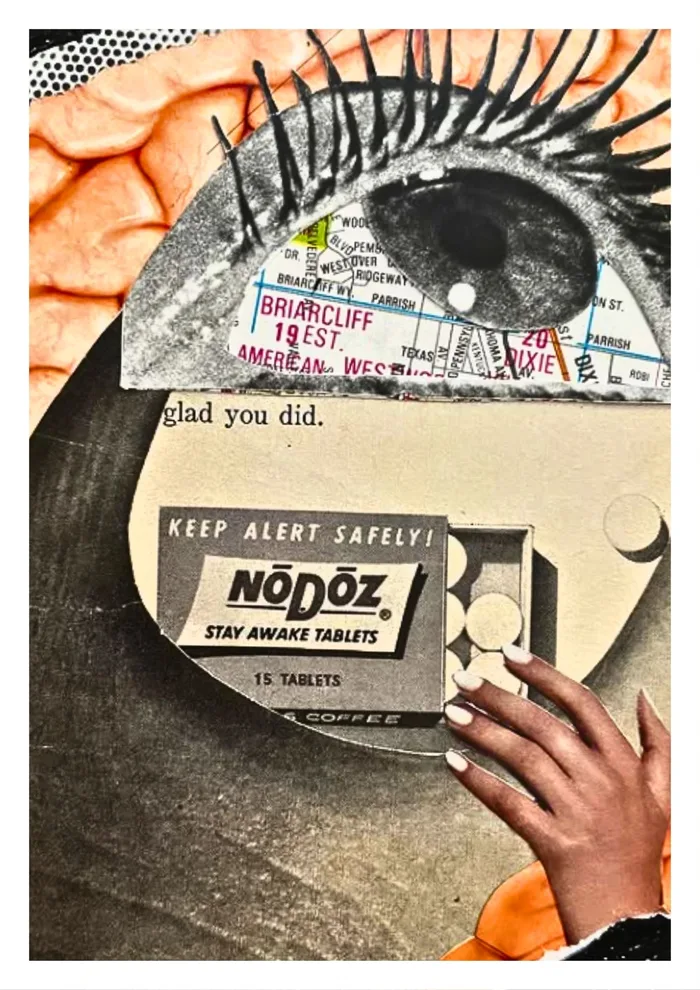
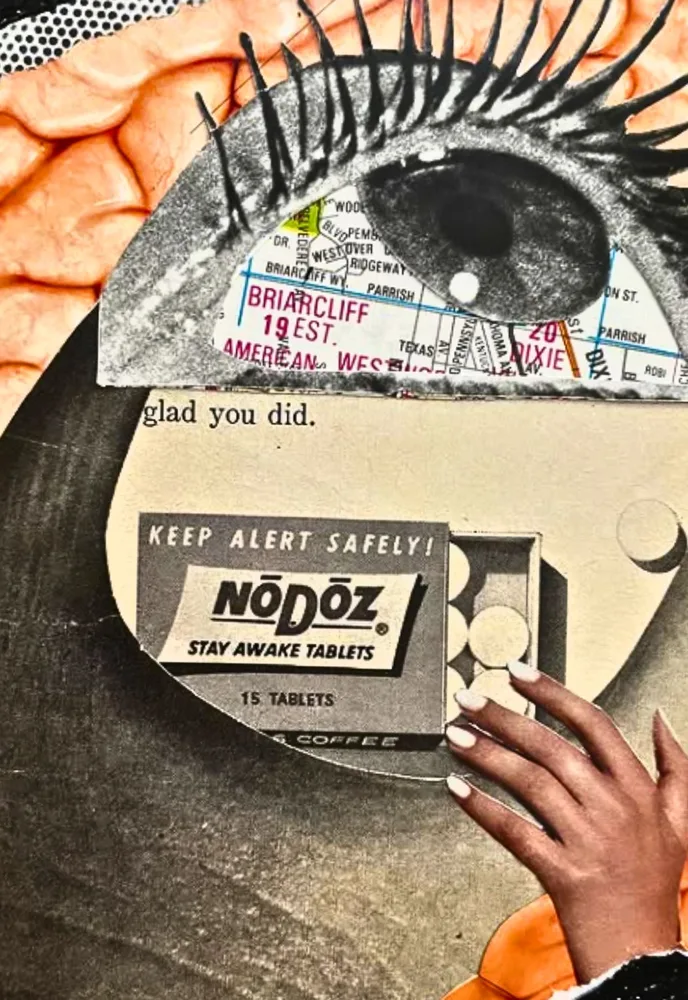
Fix the oversized white border on Xine Hann's print everywhere
- Re-cropped the print photo to its true edges (it had a built-in white
  margin plus a stray white strip at the bottom)
- Slim white print edge in the join-the-club banner (4px, was 10px on
  top of the built-in margin) and the home Mail Club slide (3px, was 6px)
- Updated image sizes in the pages and banner

Claude-Session: https://claude.ai/code/session_01LWJJAMZqnydKRJ3ZiaKBT4

diff --git a/banner.js b/banner.js
@@ -86,7 +86,7 @@ function buildMailclubBanner(spot) {
             '<span class="mcb-sparkle mcb-sparkle-1" aria-hidden="true">✦</span>' +
             '<span class="mcb-sparkle mcb-sparkle-2" aria-hidden="true">✦</span>' +
             '<a href="' + root + BANNER_SETTINGS.artistPost + '" aria-label="' + BANNER_SETTINGS.month + "'s artist: " + BANNER_SETTINGS.artist + '">' +
-              '<img loading="lazy" decoding="async" class="mcb-print" src="' + root + BANNER_SETTINGS.printImage + '" alt="" width="700" height="990">' +
+              '<img loading="lazy" decoding="async" class="mcb-print" src="' + root + BANNER_SETTINGS.printImage + '" alt="" width="440" height="639">' +
             "</a>" +
             '<img loading="lazy" decoding="async" class="mcb-sticker" src="' + root + BANNER_SETTINGS.stickerImage + '" alt="" width="400" height="474">' +
             '<img loading="lazy" decoding="async" class="mcb-sticker mcb-sticker-2" src="' + root + BANNER_SETTINGS.sticker2Image + '" alt="" width="240" height="333">' +

diff --git a/index.html b/index.html
@@ -79,7 +79,7 @@
               <a class="button slide-button" href="mailclub.html">Join the club</a>
             </div>
             <div class="slide-art slide-mail" aria-hidden="true">
-              <img loading="lazy" src="images/mailer/xine-print-small.webp" alt="" width="460" height="651">
+              <img loading="lazy" src="images/mailer/xine-print-small.webp" alt="" width="440" height="639">
               <img loading="lazy" class="slide-sticker" src="images/mailer/xine-sticker-flowers-small.webp" alt="" width="280" height="332">
               <img loading="lazy" class="slide-sticker slide-sticker-2" src="images/mailer/xine-sticker-rose-small.webp" alt="" width="240" height="333">
             </div>

diff --git a/mailclub.html b/mailclub.html
@@ -118,7 +118,7 @@
 
       <div class="inside-grid">
         <article class="post-card inside-card">
-          <div class="inside-photo"><img loading="lazy" src="images/mailer/xine-print-small.webp" width="460" height="651"
+          <div class="inside-photo"><img loading="lazy" src="images/mailer/xine-print-small.webp" width="440" height="639"
                alt="A 4x6 collage print by Xine Hann: an eye made of a Central Florida street map"></div>
           <h3 class="card-title">A 4x6 art print</h3>
           <p class="card-summary">an original print from the month's featured artist. november's is a collage by xine hann.</p>

diff --git a/style.css b/style.css
@@ -644,7 +644,7 @@ main {
 .slide-mail img {
   display: block;
   width: 100%;
-  border: 6px solid #ffffff;
+  border: 3px solid #ffffff;   /* a slim print edge */
   box-shadow: var(--soft-shadow);
   transform: rotate(5deg);
 }
@@ -2578,7 +2578,7 @@ h1.mcb-title {
   display: block;
   width: 70%;
   margin-left: auto;
-  border: 10px solid #ffffff;
+  border: 4px solid #ffffff;   /* a slim print edge */
   box-shadow: var(--soft-shadow);
   transform: rotate(4deg);
 }
